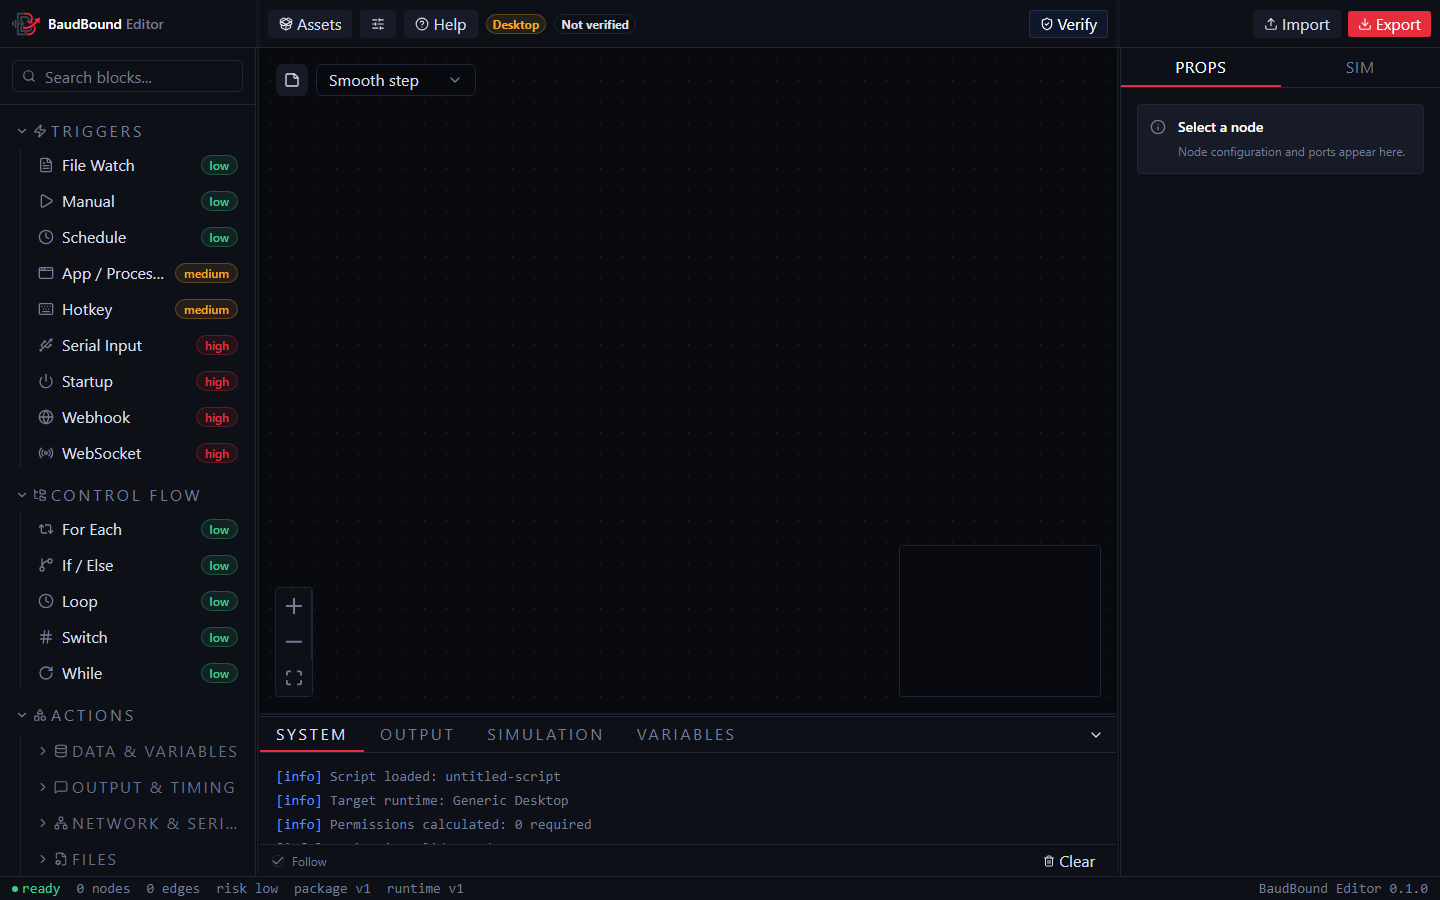
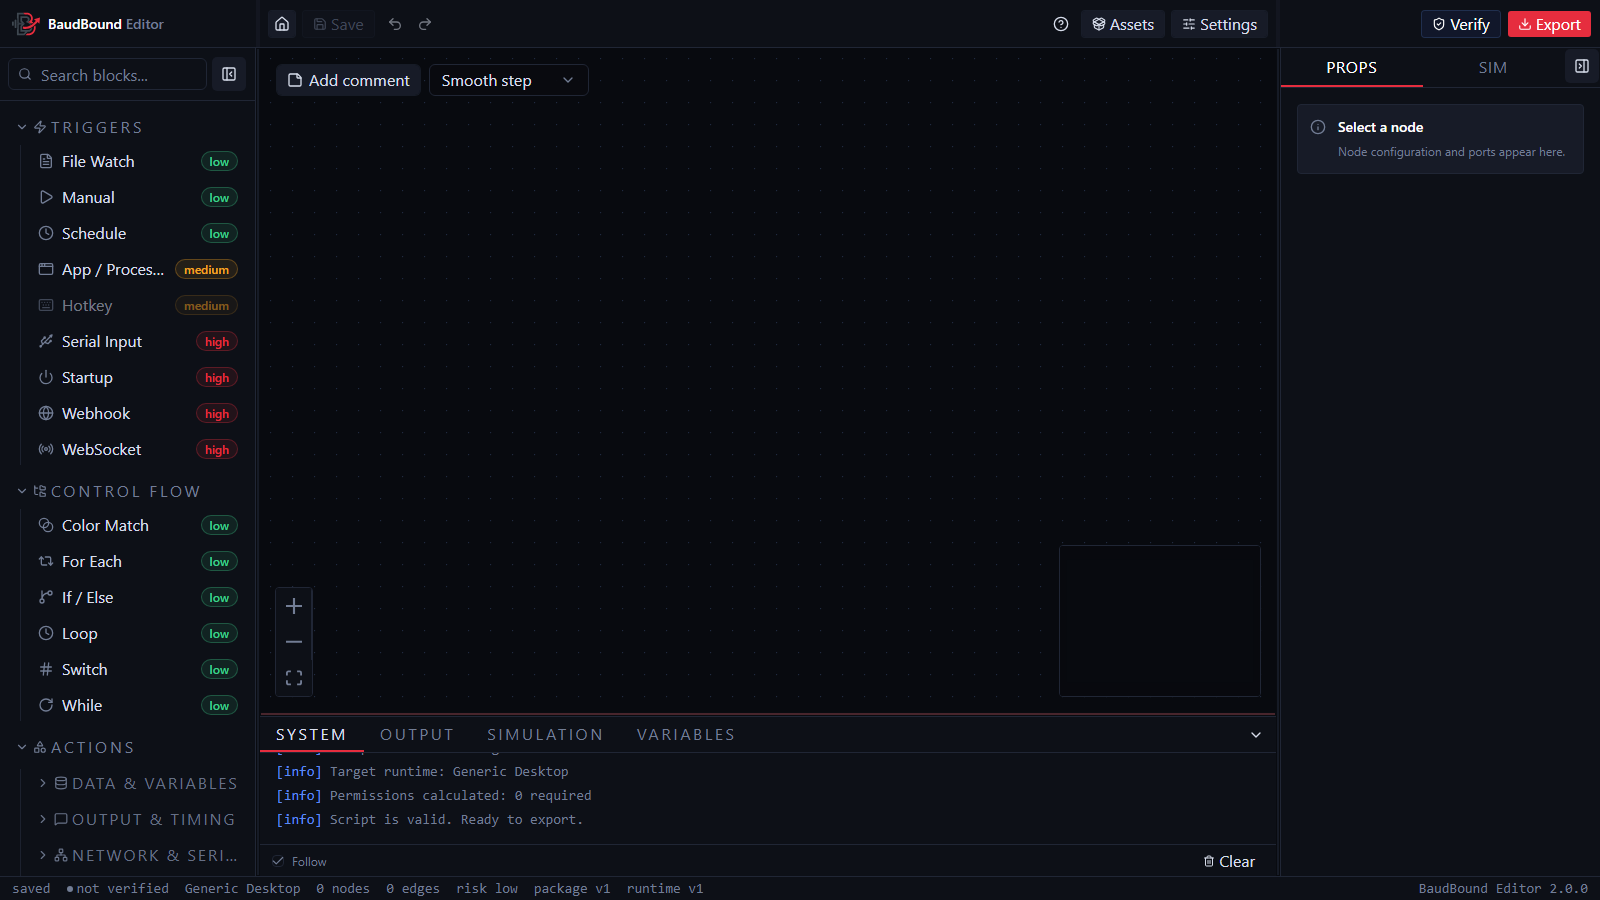
feat: simplify runner configuration management
Remove the unused runner name across configuration, status, and desktop views. Add a validated config reset flow with confirmation, rollback protection, and documentation. Improve comment header dragging and refresh the editor and installation wiki content.

diff --git a/runner/installation.md b/runner/installation.md
@@ -11,13 +11,18 @@ BaudBound releases currently target 64-bit Windows and 64-bit Linux. Windows is 
 
 Download release files only from the [BaudBound GitHub Releases page](https://github.com/NATroutter/BaudBound/releases). Open the latest published release and choose the file for the operating system. You do not need Rust, Node.js, or the source repository to run a published release.
 
-## Recommended automatic install or update {.tabset}
+## Automatic installation and updates
 
 These commands install BaudBound when it is missing and update it when an older version is installed. The downloaded release file is checked against the SHA-256 digest published by GitHub before it is opened or installed.
 
+This is the recommended method for most users. Choose the operating system below and run its single command.
+{.is-success}
+
 A SHA-256 digest is a long value calculated from a file. It works like a digital fingerprint. The installation script calculates the fingerprint of the downloaded file and compares it with the fingerprint published for that release. The script stops when they do not match.
 
-### Windows
+### Choose your operating system {.tabset}
+
+#### Windows
 
 Open PowerShell and run:
 
@@ -27,7 +32,7 @@ irm https://get.baudbound.app/windows | iex
 
 The script downloads the current Windows installer from the official BaudBound GitHub release and verifies it before opening the normal setup window. Quit BaudBound before running the command when you are updating an existing installation.
 
-### Linux
+#### Linux
 
 Open a terminal and run:
 
@@ -39,15 +44,16 @@ The Linux script requires `curl`, `jq`, and `sha256sum`. If `jq` is missing, the
 
 Quit the desktop application or stop `baudbound serve` before updating. The script refuses to replace an AppImage that is still running.
 
-Use the manual instructions below when you prefer to download and place release files yourself.
-
----
-
-## Manual installation alternative {.tabset}
+## Manual installation
 
 Use this section when you do not want to run the hosted installation script. These steps download and install the same official GitHub release files manually.
 
-### Windows
+Manual installation takes more steps and requires you to replace files yourself when updating. Use it only when you prefer not to run the automatic installation command.
+{.is-info}
+
+### Choose your operating system {.tabset}
+
+#### Windows
 
 1. Download the `.exe` setup file from the latest published release on the [BaudBound GitHub Releases page](https://github.com/NATroutter/BaudBound/releases).
 2. Open the downloaded file and complete the installer.
@@ -58,7 +64,7 @@ The desktop interface uses Microsoft Edge WebView2. It is already installed on c
 
 The installer provides the desktop application. It does not guarantee that `baudbound` is added to every terminal's `PATH`. Use the Start menu for normal desktop use. CLI users can run the installed executable directly or add its installation directory to `PATH` themselves.
 
-### Linux
+#### Linux
 
 An AppImage is a portable executable. The steps below keep it in your home directory and create a `baudbound` command for your user account. They do not install a system package and do not require `sudo`.
 

diff --git a/runner/desktop-app.md b/runner/desktop-app.md
@@ -151,13 +151,15 @@ Use **Simple** mode for validated fields and switches. The page separates settin
 
 **Shared configuration** contains the clock format and update checks used by both the desktop app and CLI.
 
-**Runner configuration** contains runner identity, target runtimes, reload timing, trigger families, network listeners, and serial devices.
+**Runner configuration** contains target runtimes, reload timing, trigger families, network listeners, and serial devices.
 
 **Desktop configuration** contains login startup, automatic background startup, tray startup, and close behavior. These values affect the graphical app only. They do not change a headless `baudbound serve` process.
 
 Use **Advanced** mode for the complete raw TOML. The CodeMirror editor supports line numbers, selection, normal keyboard editing, indentation, and scrolling. The runner validates the entire document before replacing the active configuration.
 
-**Reload** discards unsaved edits and rereads the file. **Save** writes only valid configuration. Enable **Restart desktop background runner after saving** when listener, target, or device changes must apply immediately and the runner is currently active. Display, update, and desktop window changes apply without restarting the background runner.
+**Reload** discards unsaved edits and rereads the file. **Save** writes only valid configuration. **Reset** asks for confirmation and then replaces the configuration file with BaudBound defaults. Reset does not remove installed scripts, approvals, secrets, variables, or run history.
+
+Enable **Restart desktop background runner after saving** when listener, target, or device changes must apply immediately and the runner is currently active. The same choice applies when resetting. Display, update, and desktop window changes apply without restarting the background runner.
 
 **Launch at login** registers BaudBound with the current Windows or Linux desktop session. It starts after that user signs in. It does not create a system service or start on a headless machine.
 

diff --git a/runner/configuration.md b/runner/configuration.md
@@ -84,7 +84,6 @@ The login setting represents the desired operating system registration. BaudBoun
 
 | Key | Type and default | Meaning | Restart/security impact |
 | --- | --- | --- | --- |
-| `runner.name` | optional string. `BaudBound Runner` when blank | Display name in status and UI | No privilege change. Reload UI/status |
 | `runner.trigger_reload_seconds` | integer seconds. `2` | Interval for detecting installed-script registration changes | Restart service to change polling interval |
 | `runner.run_history_max_records` | positive integer. `10000` | Maximum number of complete run records retained across all scripts | Lower values prune existing history immediately when the config is applied |
 | `runner.run_history_max_age_days` | positive integer days. `30` | Maximum age of retained runs | Lower values prune expired history immediately when the config is applied |
@@ -197,7 +196,6 @@ Add the account running BaudBound only to the group shown by the target system's
 
 ```toml
 [runner]
-name = "BaudBound Runner"
 trigger_reload_seconds = 2
 run_history_max_records = 10000
 run_history_max_age_days = 30